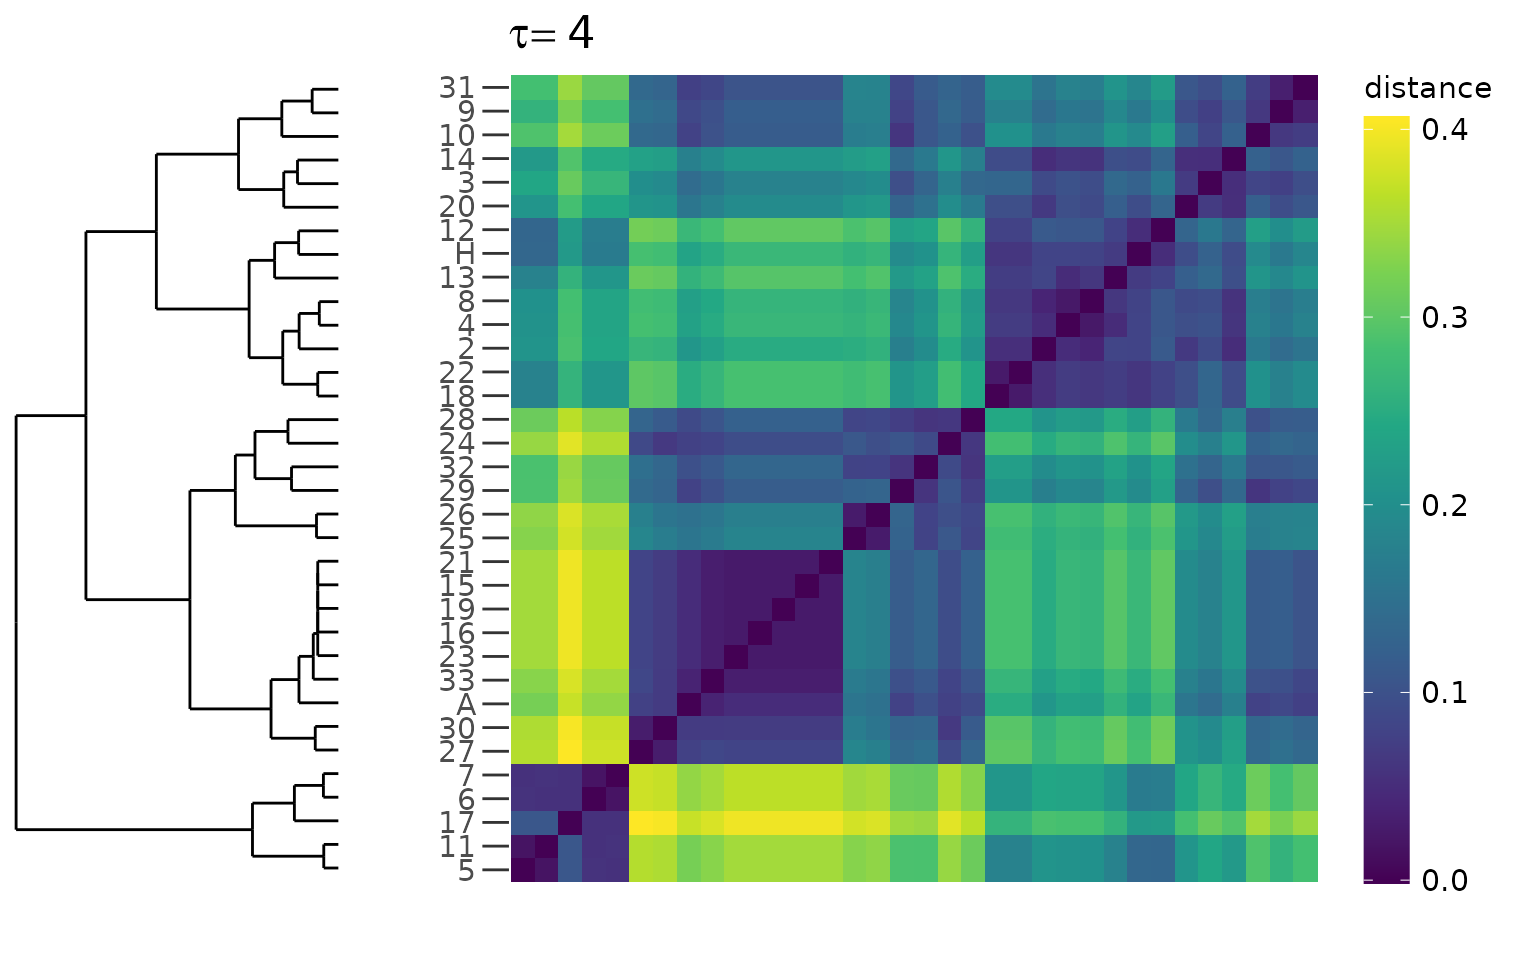
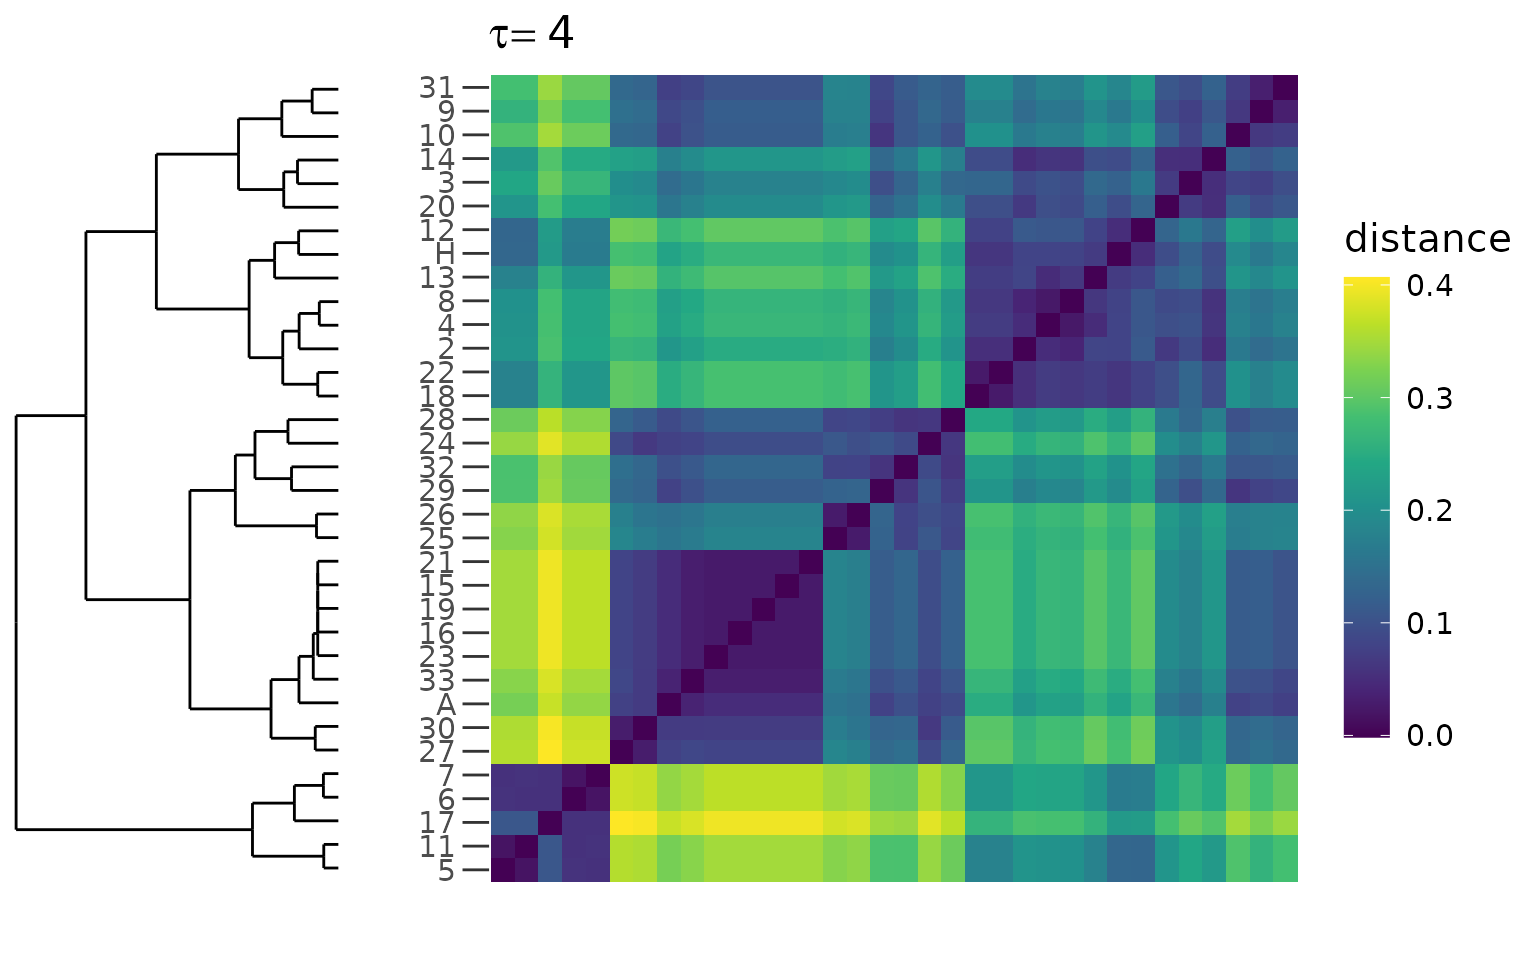
update w CRAN version

Changed region(s): [[0.25, 0.0, 0.9688, 0.9375]]

diff --git a/docs/articles/diffusion-distances.html b/docs/articles/diffusion-distances.html
@@ -140,7 +140,7 @@ s_{X}^{2} = \text{cov}(X, X) = \frac{1}{2 N^2} \sum_{i=1}^{N} \sum_{j=1}^{N} \le
 <span class="fu"><a href="https://rdrr.io/pkg/igraph/man/V.html">V</a></span><span class="op">(</span><span class="va">karate</span><span class="op">)</span><span class="op">$</span><span class="va">name</span> <span class="op">&lt;-</span> <span class="fu"><a href="https://rdrr.io/r/base/c.html">c</a></span><span class="op">(</span><span class="st">"H"</span>, <span class="fl">2</span><span class="op">:</span><span class="fl">33</span>, <span class="st">"A"</span><span class="op">)</span>
 <span class="fu"><a href="https://rdrr.io/pkg/igraph/man/V.html">V</a></span><span class="op">(</span><span class="va">karate</span><span class="op">)</span><span class="op">$</span><span class="va">Faction</span> <span class="op">&lt;-</span> <span class="fl">1</span>
 <span class="fu"><a href="https://rdrr.io/pkg/igraph/man/V.html">V</a></span><span class="op">(</span><span class="va">karate</span><span class="op">)</span><span class="op">$</span><span class="va">Faction</span><span class="op">[</span><span class="fu"><a href="https://rdrr.io/r/base/c.html">c</a></span><span class="op">(</span><span class="fl">9</span>, <span class="fl">10</span>, <span class="fl">15</span>, <span class="fl">16</span>, <span class="fl">19</span>, <span class="fl">21</span>, <span class="fl">23</span><span class="op">:</span><span class="fl">34</span><span class="op">)</span><span class="op">]</span> <span class="op">&lt;-</span> <span class="fl">2</span>
-<span class="fu"><a href="https://rdrr.io/pkg/igraph/man/V.html">V</a></span><span class="op">(</span><span class="va">karate</span><span class="op">)</span><span class="op">$</span><span class="va">color</span> <span class="op">&lt;-</span> <span class="fu"><a href="https://rdrr.io/r/base/c.html">c</a></span><span class="op">(</span><span class="st">"#66c2a5"</span>, <span class="st">"#fc8d62"</span><span class="op">)</span><span class="op">[</span><span class="fu"><a href="https://rdrr.io/pkg/igraph/man/V.html">V</a></span><span class="op">(</span><span class="va">karate</span><span class="op">)</span><span class="op">$</span><span class="va">Faction</span><span class="op">]</span></code></pre></div>
+<span class="fu"><a href="https://rdrr.io/pkg/igraph/man/V.html">V</a></span><span class="op">(</span><span class="va">karate</span><span class="op">)</span><span class="op">$</span><span class="va">color</span> <span class="op">&lt;-</span> <span class="fu">viridis</span><span class="fu">::</span><span class="fu"><a href="https://sjmgarnier.github.io/viridisLite/reference/viridis.html">viridis</a></span><span class="op">(</span><span class="fl">3</span>, direction <span class="op">=</span> <span class="op">-</span><span class="fl">1</span><span class="op">)</span><span class="op">[</span><span class="fu"><a href="https://rdrr.io/pkg/igraph/man/V.html">V</a></span><span class="op">(</span><span class="va">karate</span><span class="op">)</span><span class="op">$</span><span class="va">Faction</span><span class="op">]</span></code></pre></div>
 <p>Plot the network:</p>
 <div class="sourceCode" id="cb3"><pre class="downlit sourceCode r">
 <code class="sourceCode R"><span class="fu"><a href="https://rdrr.io/r/graphics/plot.default.html">plot</a></span><span class="op">(</span><span class="va">karate</span>, edge.width <span class="op">=</span> <span class="fu"><a href="https://rdrr.io/pkg/igraph/man/E.html">E</a></span><span class="op">(</span><span class="va">karate</span><span class="op">)</span><span class="op">$</span><span class="va">weight</span><span class="op">)</span></code></pre></div>
@@ -193,14 +193,14 @@ s_{X}^{2} = \text{cov}(X, X) = \frac{1}{2 N^2} \sum_{i=1}^{N} \sum_{j=1}^{N} \le
 <strong>Figure 4</strong> Diffusion distances of the weighted karate club network. As in Fig.2, but accounting also for interactions strenghts (i.e. edge weights). Observe that in this case there are no misclassifications and the (main) two-module partition is stable over time.
 </p>
 </div>
-<p>In order to compare diffusion distances at different times or between different networks, one can normalise the distance matrix <span class="math inline">\(\mathbf{D}_{\tau}\)</span> over the maximum, i.e. <span class="math inline">\(\mathbf{\hat{D}}_{\tau} = \frac{\mathbf{D}_{\tau}}{\max{\mathbf{D}_{\tau}}}\)</span>, as shown in Fig. @ref(fig:karate-avg-ddm) for the average distance matricesobtained calling the function <code><a href="../reference/get_mean_distance_matrix.html">get_mean_distance_matrix()</a></code> on the list of diffusion distance matrices at different values of <span class="math inline">\(\tau\)</span>of the unweighted and weighted karate club network. As mentioned in Section , averaging diffusion distances over time yields the persistent diffusion geometry of the network, which is very similar for both its versions (weighted and not).</p>
+<p>In order to compare diffusion distances at different times or between different networks, one can normalise the distance matrix <span class="math inline">\(\mathbf{D}_{\tau}\)</span> over the maximum, i.e. <span class="math inline">\(\mathbf{\hat{D}}_{\tau} = \frac{\mathbf{D}_{\tau}}{\max{\mathbf{D}_{\tau}}}\)</span>, as shown in Fig. 5 for the average distance matricesobtained calling the function <code><a href="../reference/get_mean_distance_matrix.html">get_mean_distance_matrix()</a></code> on the list of diffusion distance matrices at different values of <span class="math inline">\(\tau\)</span>of the unweighted and weighted karate club network. As mentioned in Section , averaging diffusion distances over time yields the persistent diffusion geometry of the network, which is very similar for both its versions (weighted and not).</p>
 <div class="sourceCode" id="cb9"><pre class="downlit sourceCode r">
 <code class="sourceCode R"><span class="va">karate_unw_ddm_avg</span> <span class="op">&lt;-</span> <span class="fu"><a href="../reference/get_mean_distance_matrix.html">get_mean_distance_matrix</a></span><span class="op">(</span><span class="va">karate_unw_ddm_list</span><span class="op">)</span>
 <span class="va">karate_w_ddm_avg</span> <span class="op">&lt;-</span> <span class="fu"><a href="../reference/get_mean_distance_matrix.html">get_mean_distance_matrix</a></span><span class="op">(</span><span class="va">karate_w_ddm_list</span><span class="op">)</span>
 <span class="co"># then divide by max() and plot as before (but with  show_dendro = FALSE)</span></code></pre></div>
 <div class="figure" style="text-align: center">
-<img src="diffusion-distances_files/figure-html/avg-ddms-plot-1.png" alt="Comparison of the normalised average diffusion distance matrices for the unweighted/weighted karate club network." width="47%"><img src="diffusion-distances_files/figure-html/avg-ddms-plot-2.png" alt="Comparison of the normalised average diffusion distance matrices for the unweighted/weighted karate club network." width="47%"><p class="caption">
-Comparison of the normalised average diffusion distance matrices for the unweighted/weighted karate club network.
+<img src="diffusion-distances_files/figure-html/avg-ddms-plot-1.png" alt="**Figure 5** Comparison of the normalised average diffusion distance matrices for the unweighted/weighted karate club network." width="47%"><img src="diffusion-distances_files/figure-html/avg-ddms-plot-2.png" alt="**Figure 5** Comparison of the normalised average diffusion distance matrices for the unweighted/weighted karate club network." width="47%"><p class="caption">
+<strong>Figure 5</strong> Comparison of the normalised average diffusion distance matrices for the unweighted/weighted karate club network.
 </p>
 </div>
 </div>
@@ -301,7 +301,7 @@ Moler, Cleve, and Charles Van Loan. 2003. <span>“Nineteen Dubious Ways to Comp
 Norris, James R. 1998. <em>Markov Chains</em>. Cambridge university press.
 </div>
 <div id="ref-Zachary1977" class="csl-entry">
-Zachary, Wayne W. 1977. <span>“An Information Flow Model for Conflict and Fission in Small Groups.”</span> <em>Journal of Anthropological Research</em> 33 (4): 452–73. <a href="http://www.jstor.org/stable/3629752">http://www.jstor.org/stable/3629752</a>.
+Zachary, Wayne W. 1977. <span>“An Information Flow Model for Conflict and Fission in Small Groups.”</span> <em>Journal of Anthropological Research</em> 33 (4): 452–73. <a href="https://www.jstor.org/stable/3629752">https://www.jstor.org/stable/3629752</a>.
 </div>
 </div>
 </div>

diff --git a/docs/index.html b/docs/index.html
@@ -138,11 +138,13 @@
 <span class="fu"><a href="https://rdrr.io/r/graphics/plot.default.html">plot</a></span><span class="op">(</span><span class="va">g</span>, vertex.label <span class="op">=</span> <span class="va">vertex_labels</span>, vertex.size <span class="op">=</span> <span class="fl">6</span> <span class="op">+</span> <span class="fl">10</span> <span class="op">*</span> <span class="op">(</span><span class="va">deg_g</span> <span class="op">-</span> <span class="fu"><a href="https://rdrr.io/r/base/Extremes.html">min</a></span><span class="op">(</span><span class="va">deg_g</span><span class="op">)</span><span class="op">)</span> <span class="op">/</span> <span class="fu"><a href="https://rdrr.io/r/base/Extremes.html">max</a></span><span class="op">(</span><span class="va">deg_g</span><span class="op">)</span><span class="op">)</span></code></pre></div>
 <p><img src="reference/figures/plot-g-1.png"><!-- --></p>
 <div class="sourceCode" id="cb4"><pre class="downlit sourceCode r">
-<code class="sourceCode R"><span class="va">D</span> <span class="op">&lt;-</span> <span class="fu"><a href="reference/get_distance_matrix.html">get_DDM</a></span><span class="op">(</span><span class="va">g</span>, tau <span class="op">=</span> <span class="fl">2</span>, type <span class="op">=</span> <span class="st">"Normalized Laplacian"</span>, verbose <span class="op">=</span> <span class="cn">FALSE</span><span class="op">)</span>
-<span class="va">MERW_Pt</span> <span class="op">&lt;-</span> <span class="fu"><a href="reference/get_diffusion_probability_matrix.html">get_diffu_Pt</a></span><span class="op">(</span><span class="va">g</span>, tau <span class="op">=</span> <span class="fl">2</span>, type <span class="op">=</span> <span class="st">"MERW"</span><span class="op">)</span>
+<code class="sourceCode R"><span class="va">D</span> <span class="op">&lt;-</span> <span class="fu"><a href="reference/get_distance_matrix.html">get_distance_matrix</a></span><span class="op">(</span><span class="va">g</span>, tau <span class="op">=</span> <span class="fl">2</span>, type <span class="op">=</span> <span class="st">"Normalized Laplacian"</span>, verbose <span class="op">=</span> <span class="cn">FALSE</span><span class="op">)</span>
+<span class="co"># or, for short:</span>
+<span class="co"># get_DDM(g, tau = 2, type = "Normalized Laplacian", verbose = FALSE)</span>
+<span class="va">MERW_Pt</span> <span class="op">&lt;-</span> <span class="fu"><a href="reference/get_diffusion_probability_matrix.html">get_diffusion_probability_matrix</a></span><span class="op">(</span><span class="va">g</span>, tau <span class="op">=</span> <span class="fl">2</span>, type <span class="op">=</span> <span class="st">"MERW"</span><span class="op">)</span>
 <span class="co">#&gt; Unweighted network.</span>
 <span class="co">#&gt; Evaluating the MERW Normalized Laplacian matrix</span></code></pre></div>
-<p>The probability transition matrix returned from <code>get_diffusion_probability_matrix</code> (or its shortened version <code>get_diffu_Pt</code>) is the matrix <em>e</em><sup> − *τ**L<em><sub>rw</sub></em></sup>. The diffusion dynamics is controlled by the specific Laplacian matrix L<em><sub>rw</sub> = </em>I<em> − </em>T<em><sub>rw</sub>, where </em>T*<sub>rw</sub> is the jump matrix of the discrete-time random walk corresponding to our continuous-time dynamics.</p>
+<p>The probability transition matrix returned from <code>get_diffusion_probability_matrix</code> (or its shortened version <code>get_diffu_Pt</code>) is the matrix <em>e</em><sup>−*τ**L<em><sub>rw</sub></em></sup>. The diffusion dynamics is controlled by the specific Laplacian matrix L<em><sub>rw</sub> = </em>I<em> − </em>T<em><sub>rw</sub>, where </em>T*<sub>rw</sub> is the jump matrix of the discrete-time random walk corresponding to our continuous-time dynamics.</p>
 <p>Let us check that <code>MERW_Pt</code> is an actual stochastic (transition) matrix, i.e., that its rows are probability vectors</p>
 <div class="sourceCode" id="cb5"><pre class="downlit sourceCode r">
 <code class="sourceCode R"><span class="kw">if</span> <span class="op">(</span><span class="fu"><a href="https://rdrr.io/r/base/sum.html">sum</a></span><span class="op">(</span><span class="va">MERW_Pt</span><span class="op">)</span>  <span class="op">-</span> <span class="va">N</span> <span class="op">&gt;</span> <span class="fl">1e-6</span><span class="op">)</span> <span class="op">{</span>
@@ -223,6 +225,7 @@
 <ul class="list-unstyled">
 <li><a href="https://lifecycle.r-lib.org/articles/stages.html#experimental"><img src="https://img.shields.io/badge/lifecycle-experimental-orange.svg" alt="Lifecycle: experimental"></a></li>
 <li><a href="https://github.com/gbertagnolli/diffudist/actions"><img src="https://github.com/gbertagnolli/diffudist/workflows/R-CMD-check/badge.svg" alt="R-CMD-check"></a></li>
+<li><a href="https://CRAN.R-project.org/package=diffudist"><img src="https://www.r-pkg.org/badges/version/diffudist" alt="CRAN status"></a></li>
 </ul>
 </div>
 </div>

diff --git a/docs/reference/plot_distance_matrix.html b/docs/reference/plot_distance_matrix.html
@@ -131,7 +131,7 @@
 
     <pre class="usage"><span class='fu'>plot_distance_matrix</span><span class='op'>(</span>
   <span class='va'>DM</span>,
-  col_palette <span class='op'>=</span> <span class='fu'>viridis</span><span class='fu'>::</span><span class='fu'><a href='https://sjmgarnier.github.io/viridisLite/reference/viridis.html'>viridis</a></span><span class='op'>(</span>n <span class='op'>=</span> <span class='fl'>11</span><span class='op'>)</span>,
+  col_palette <span class='op'>=</span> <span class='fu'>viridis</span><span class='op'>(</span>n <span class='op'>=</span> <span class='fl'>11</span><span class='op'>)</span>,
   log_scale <span class='op'>=</span> <span class='cn'>FALSE</span>,
   cex <span class='op'>=</span> <span class='fl'>1</span>,
   show_dendro <span class='op'>=</span> <span class='cn'>TRUE</span>,

diff --git a/src/eigenMapMatMult.cpp b/src/eigenMapMatMult.cpp
@@ -1,4 +1,6 @@
-#include <Rcpp.h>
+// -*- mode: C++; c-indent-level: 4; c-basic-offset: 4; indent-tabs-mode: nil; -*-
+
+// we only include RcppEigen.h which pulls Rcpp.h in for us
 #include <RcppEigen.h>
 
 // [[Rcpp::depends(RcppEigen)]]

diff --git a/src/eigenMatMult.cpp b/src/eigenMatMult.cpp
@@ -1,4 +1,6 @@
-#include <Rcpp.h>
+// -*- mode: C++; c-indent-level: 4; c-basic-offset: 4; indent-tabs-mode: nil; -*-
+
+// we only include RcppEigen.h which pulls Rcpp.h in for us
 #include <RcppEigen.h>
 
 // [[Rcpp::depends(RcppEigen)]]

diff --git a/README.md b/README.md
@@ -8,6 +8,8 @@
 [![Lifecycle:
 experimental](https://img.shields.io/badge/lifecycle-experimental-orange.svg)](https://lifecycle.r-lib.org/articles/stages.html#experimental)
 [![R-CMD-check](https://github.com/gbertagnolli/diffudist/workflows/R-CMD-check/badge.svg)](https://github.com/gbertagnolli/diffudist/actions)
+[![CRAN
+status](https://www.r-pkg.org/badges/version/diffudist)](https://CRAN.R-project.org/package=diffudist)
 <!-- badges: end -->
 
 ## Overview
@@ -61,15 +63,17 @@ plot(g, vertex.label = vertex_labels, vertex.size = 6 + 10 * (deg_g - min(deg_g)
 ![](man/figures/plot-g-1.png)<!-- -->
 
 ``` r
-D <- get_DDM(g, tau = 2, type = "Normalized Laplacian", verbose = FALSE)
-MERW_Pt <- get_diffu_Pt(g, tau = 2, type = "MERW")
+D <- get_distance_matrix(g, tau = 2, type = "Normalized Laplacian", verbose = FALSE)
+# or, for short:
+# get_DDM(g, tau = 2, type = "Normalized Laplacian", verbose = FALSE)
+MERW_Pt <- get_diffusion_probability_matrix(g, tau = 2, type = "MERW")
 #> Unweighted network.
 #> Evaluating the MERW Normalized Laplacian matrix
 ```
 
 The probability transition matrix returned from
 `get_diffusion_probability_matrix` (or its shortened version
-`get_diffu_Pt`) is the matrix *e*<sup> − *τ**L*<sub>rw</sub></sup>. The
+`get_diffu_Pt`) is the matrix *e*<sup>−*τ**L*<sub>rw</sub></sup>. The
 diffusion dynamics is controlled by the specific Laplacian matrix
 *L*<sub>rw</sub> = *I* − *T*<sub>rw</sub>, where *T*<sub>rw</sub> is the
 jump matrix of the discrete-time random walk corresponding to our
